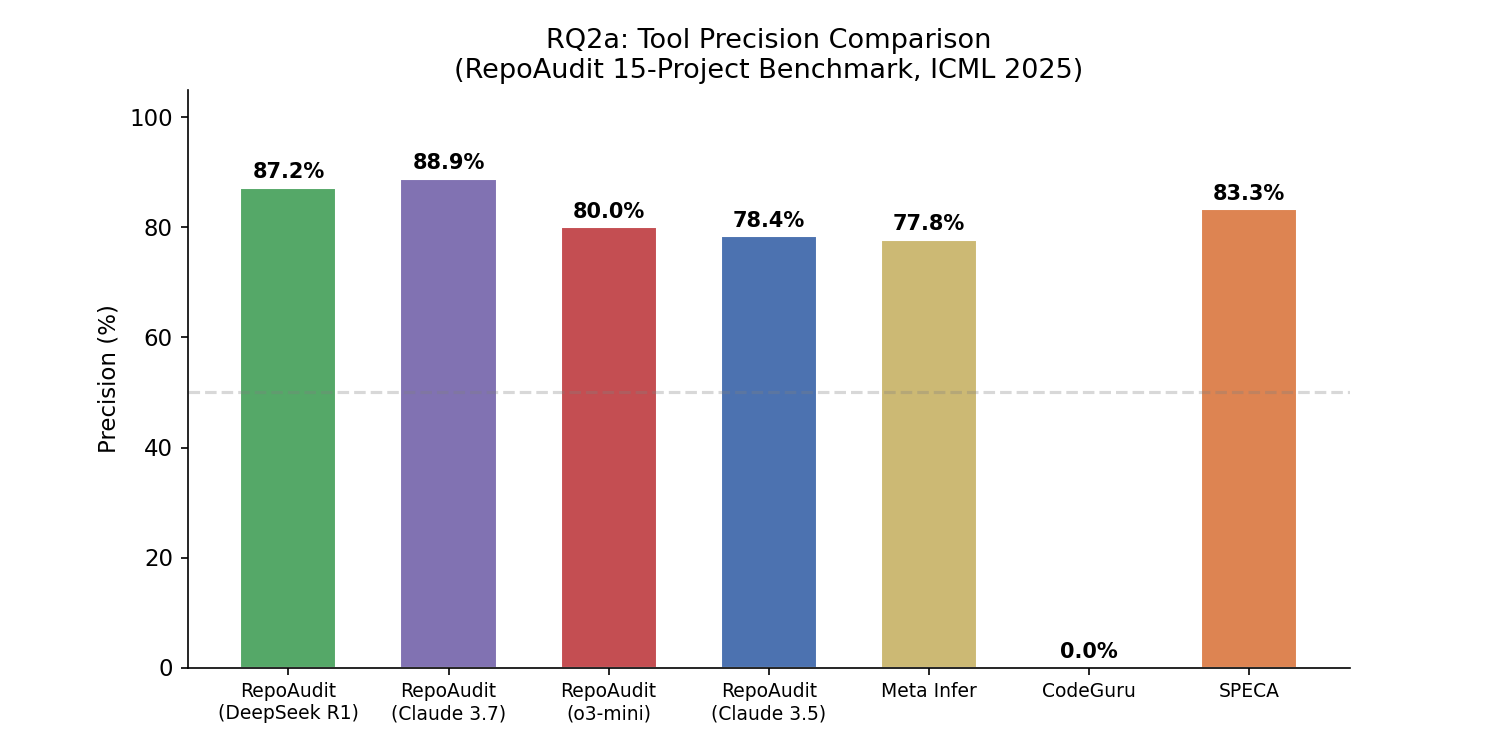
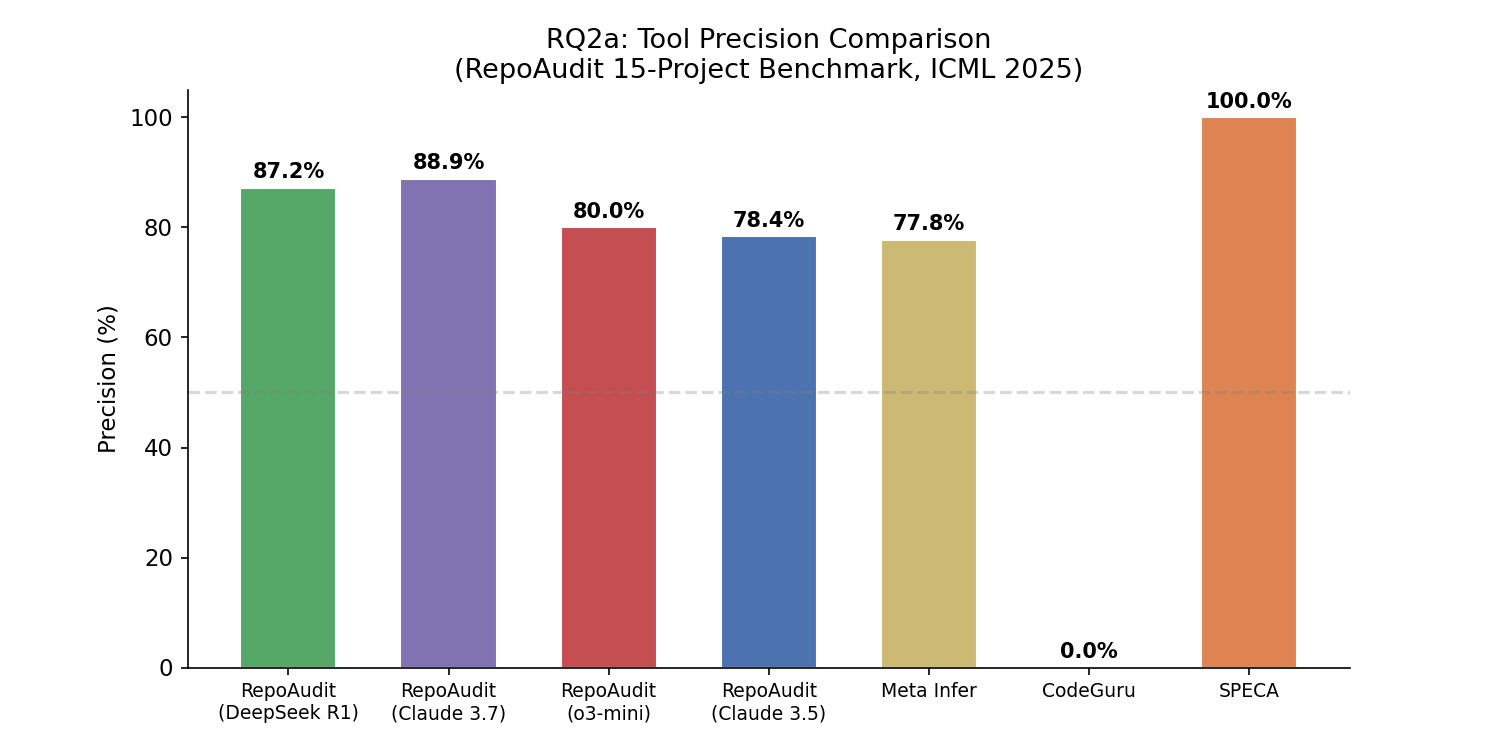
manually removed test code property and its findings

Changed region(s): [[0.7973, 0.1227, 0.8893, 0.3067]]

diff --git a/benchmarks/results/rq2a/figures/rq2a_table.tex b/benchmarks/results/rq2a/figures/rq2a_table.tex
@@ -14,7 +14,7 @@
     Meta Infer & 7 & 2 & 77.78\% & Section 4.4, v3 \\
     Amazon CodeGuru & 0 & 18 & 0.00\% & Section 4.4, v3 \\
     Single-function LLM & 1 & --- & --- & Section 4.3, v3 \\
-    \textbf{SPECA} & \textbf{5} & \textbf{1} & \textbf{83.33\%} & This study \\
+    \textbf{SPECA} & \textbf{5} & \textbf{0} & \textbf{100.00\%} & This study \\
     \bottomrule
   \end{tabular}
 \end{table}